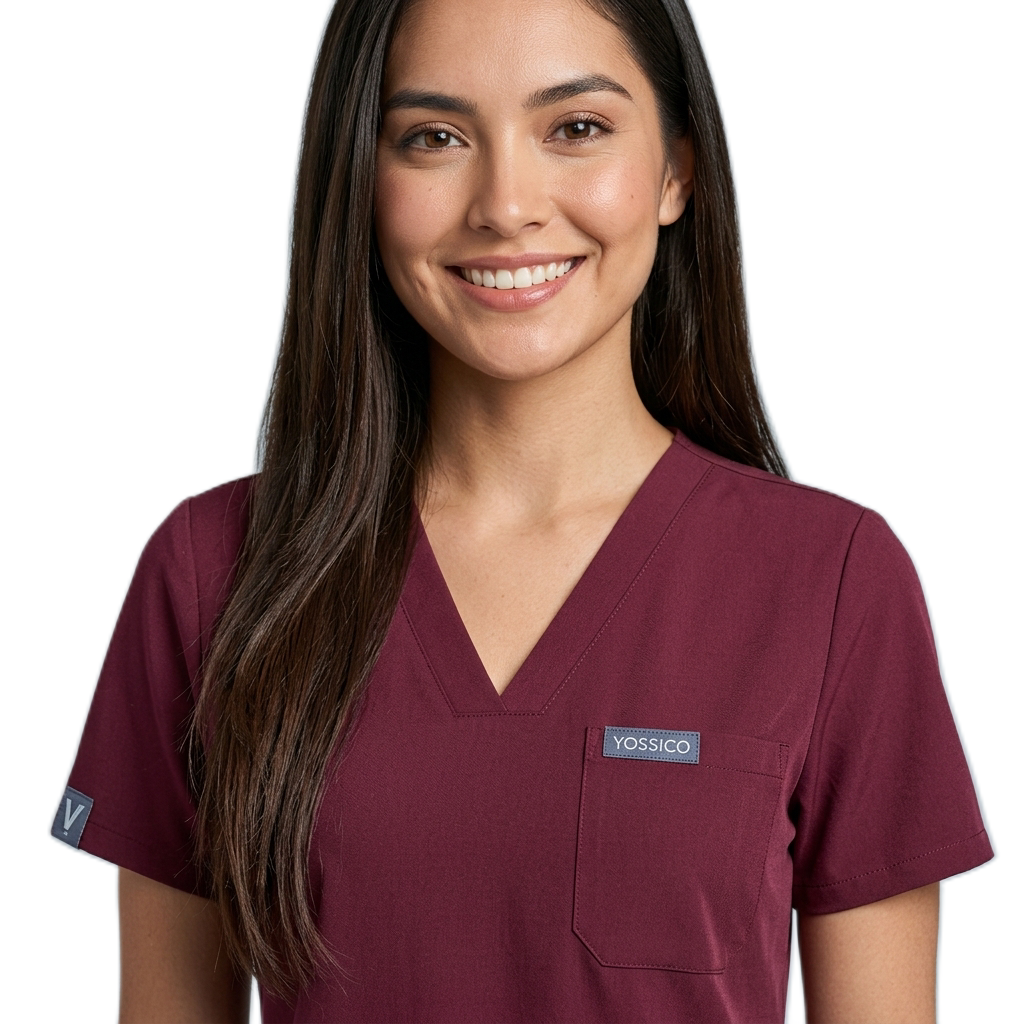
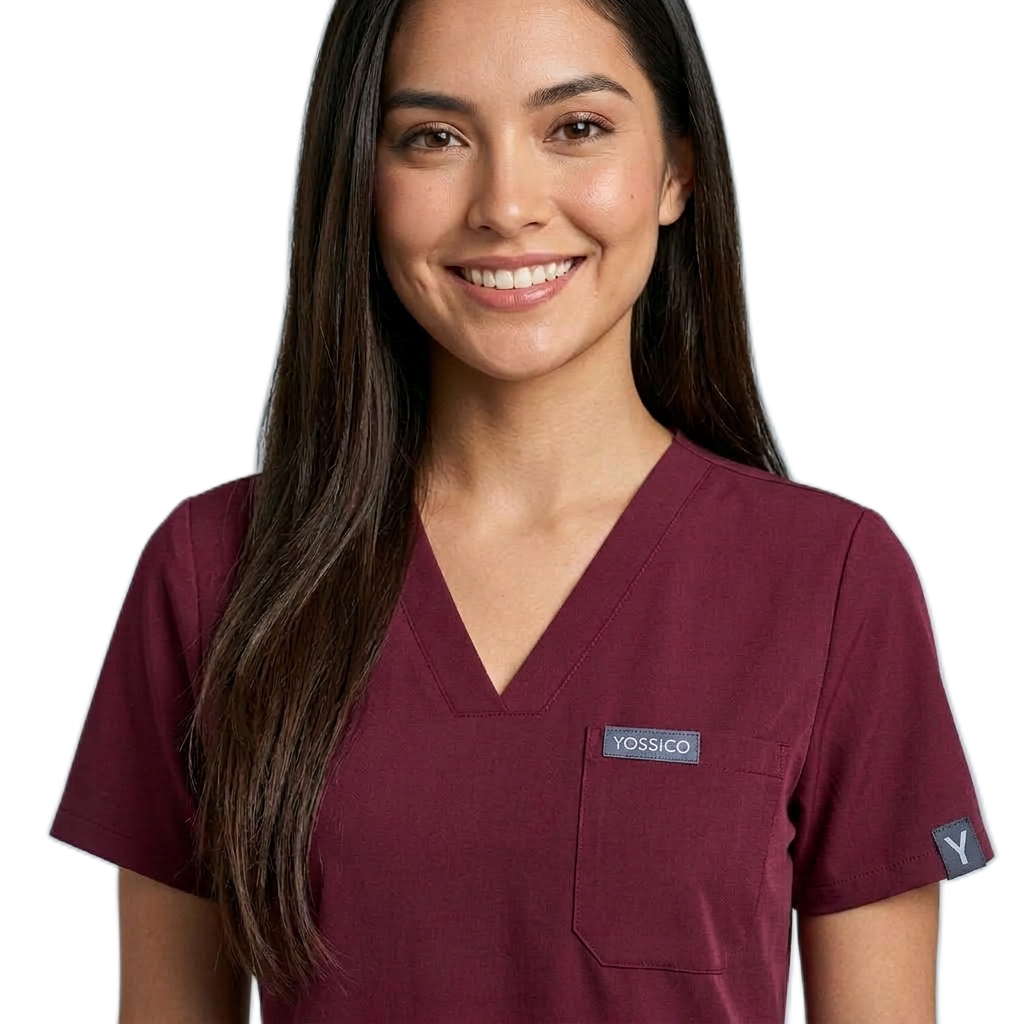
fix(web): update hero model with Y tag and remove mouse parallax effect per user request

Changed region(s): [[0.9062, 0.7812, 0.9688, 0.875], [0.0312, 0.7188, 0.0938, 0.8438]]

diff --git a/web/index.html b/web/index.html
@@ -1551,7 +1551,6 @@
 <script src="https://cdnjs.cloudflare.com/ajax/libs/gsap/3.12.2/gsap.min.js"></script>
 <script>
   document.addEventListener('DOMContentLoaded', () => {
-    // Parallax effect
     const container = document.querySelector('.parallax-container');
     const model = document.getElementById('hero-model');
     const shadow = document.getElementById('hero-shadow');
@@ -1570,51 +1569,13 @@
       gsap.to('.tag-1', { opacity: 1, y: 0, duration: 1.2, delay: 0.8, ease: "power2.out" });
       gsap.to('.tag-2', { opacity: 1, y: 0, duration: 1.2, delay: 1.1, ease: "power2.out" });
 
-      // Breathing idle animation to make her feel "alive" even without mouse
+      // Breathing idle animation to make her feel "alive" smoothly
       gsap.to(model, { 
-        y: -10, 
+        y: -8, 
         duration: 3, 
         repeat: -1, 
         yoyo: true, 
         ease: "sine.inOut" 
-      });
-
-      // Mouse parallax (only subtle rotation so her feet stay planted)
-      container.addEventListener('mousemove', (e) => {
-        const x = (e.clientX / window.innerWidth - 0.5) * 2;
-        const y = (e.clientY / window.innerHeight - 0.5) * 2;
-        
-        // Pivot from the bottom to keep feet on the shadow
-        gsap.to(model, {
-          rotationY: x * 5,
-          rotationX: y * -2,
-          x: x * -15,
-          transformPerspective: 1000,
-          duration: 1,
-          ease: "power2.out"
-        });
-
-        gsap.to(tags, {
-          x: x * -30,
-          y: y * -15,
-          duration: 1.5,
-          ease: "power2.out"
-        });
-        
-        gsap.to(shadow, {
-          xPercent: -50,
-          x: x * -5,
-          scale: 1 + (y * 0.1),
-          duration: 1,
-          ease: "power2.out"
-        });
-      });
-      
-      // Reset on mouse leave
-      container.addEventListener('mouseleave', () => {
-        gsap.to(model, { rotationY: 0, rotationX: 0, x: 0, duration: 1.5, ease: "power2.out" });
-        gsap.to(tags, { x: 0, y: 0, duration: 1.5, ease: "power2.out" });
-        gsap.to(shadow, { x: 0, scale: 1, duration: 1.5, ease: "power2.out" });
       });
     }
   });
